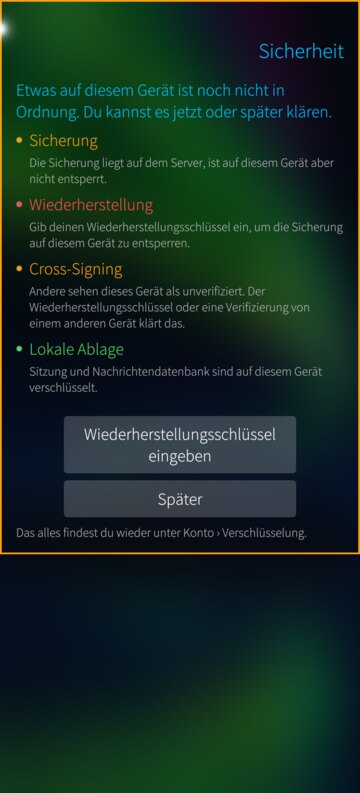
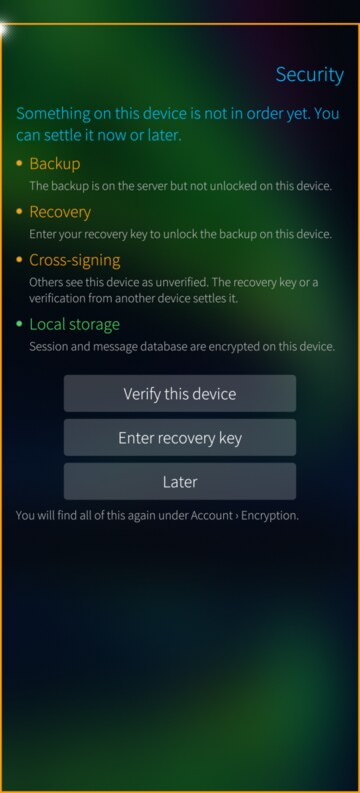
The README shows the pictures the store page shows, in its order
The gallery there is the reference: the verification page was missing here, and
security, encryption and the account were still the German shots. Appearance is
two pictures since the return key moved in beside the keyboard setting.

Changed region(s): [[0.0, 0.0, 1.0, 1.0]]

diff --git a/README.md b/README.md
@@ -87,16 +87,16 @@ repository.
 
 | | | |
 |---|---|---|
+| ![Security at a glance](screenshots/01-security-status.jpg) | ![Verification](screenshots/02-verification.jpg) | ![Encryption](screenshots/03-encryption.jpg) |
+| What is not in order yet, and what to do about it | Seven emoji, in the same order on both devices | Backup, recovery, cross-signing, local storage |
+| ![The account](screenshots/04-account.jpg) | ![Colours](screenshots/05_1-appearance-colours.jpg) | ![More appearance](screenshots/05_2-appearance-options.jpg) |
+| The account, the device and this app | Every bubble, name and text colour is yours to set | Opacity, the return key, the keyboard, reactions as pictures |
+| ![Privacy](screenshots/06-privacy.jpg) | ![On this device](screenshots/07-privacy-device.jpg) | ![Languages](screenshots/08-languages.jpg) |
+| Who may call, and what others learn | What stays here, and for how long | Twenty-nine languages, switchable in the app |
 | ![The room list](screenshots/09-rooms.jpg) | ![A conversation](screenshots/10-conversation.jpg) | ![The room's menu](screenshots/11-room-menu.jpg) |
 | The room list, with search | Replies, reactions, a pinned message and a picture | What a room offers, including a call |
 | ![Room info](screenshots/12-room-info.jpg) | ![Starting something](screenshots/13-rooms-menu.jpg) | ![The room directory](screenshots/14-directory.jpg) |
 | A room's own settings and address | New chat, new room, join, discover | Public rooms, from your server or another |
-| ![Security at a glance](screenshots/01-security-status.jpg) | ![Encryption](screenshots/02-encryption.jpg) | ![The account](screenshots/03-account.jpg) |
-| What is not in order yet, and what to do about it | Backup, recovery, cross-signing, local storage | The account, the device and this app |
-| ![Colours](screenshots/04-appearance-colours.jpg) | ![More appearance](screenshots/05-appearance-options.jpg) | ![Languages](screenshots/08-languages.jpg) |
-| Every bubble, name and text colour is yours to set | Opacity, the keyboard, reactions as pictures | Twenty-nine languages, switchable in the app |
-| ![Privacy](screenshots/06-privacy.jpg) | ![On this device](screenshots/07-privacy-device.jpg) | |
-| Who may call, and what others learn | What stays here, and for how long | |
 
 Taken on a phone with a camera cutout, across several ambiences — the app takes
 its colours from the one you use.
